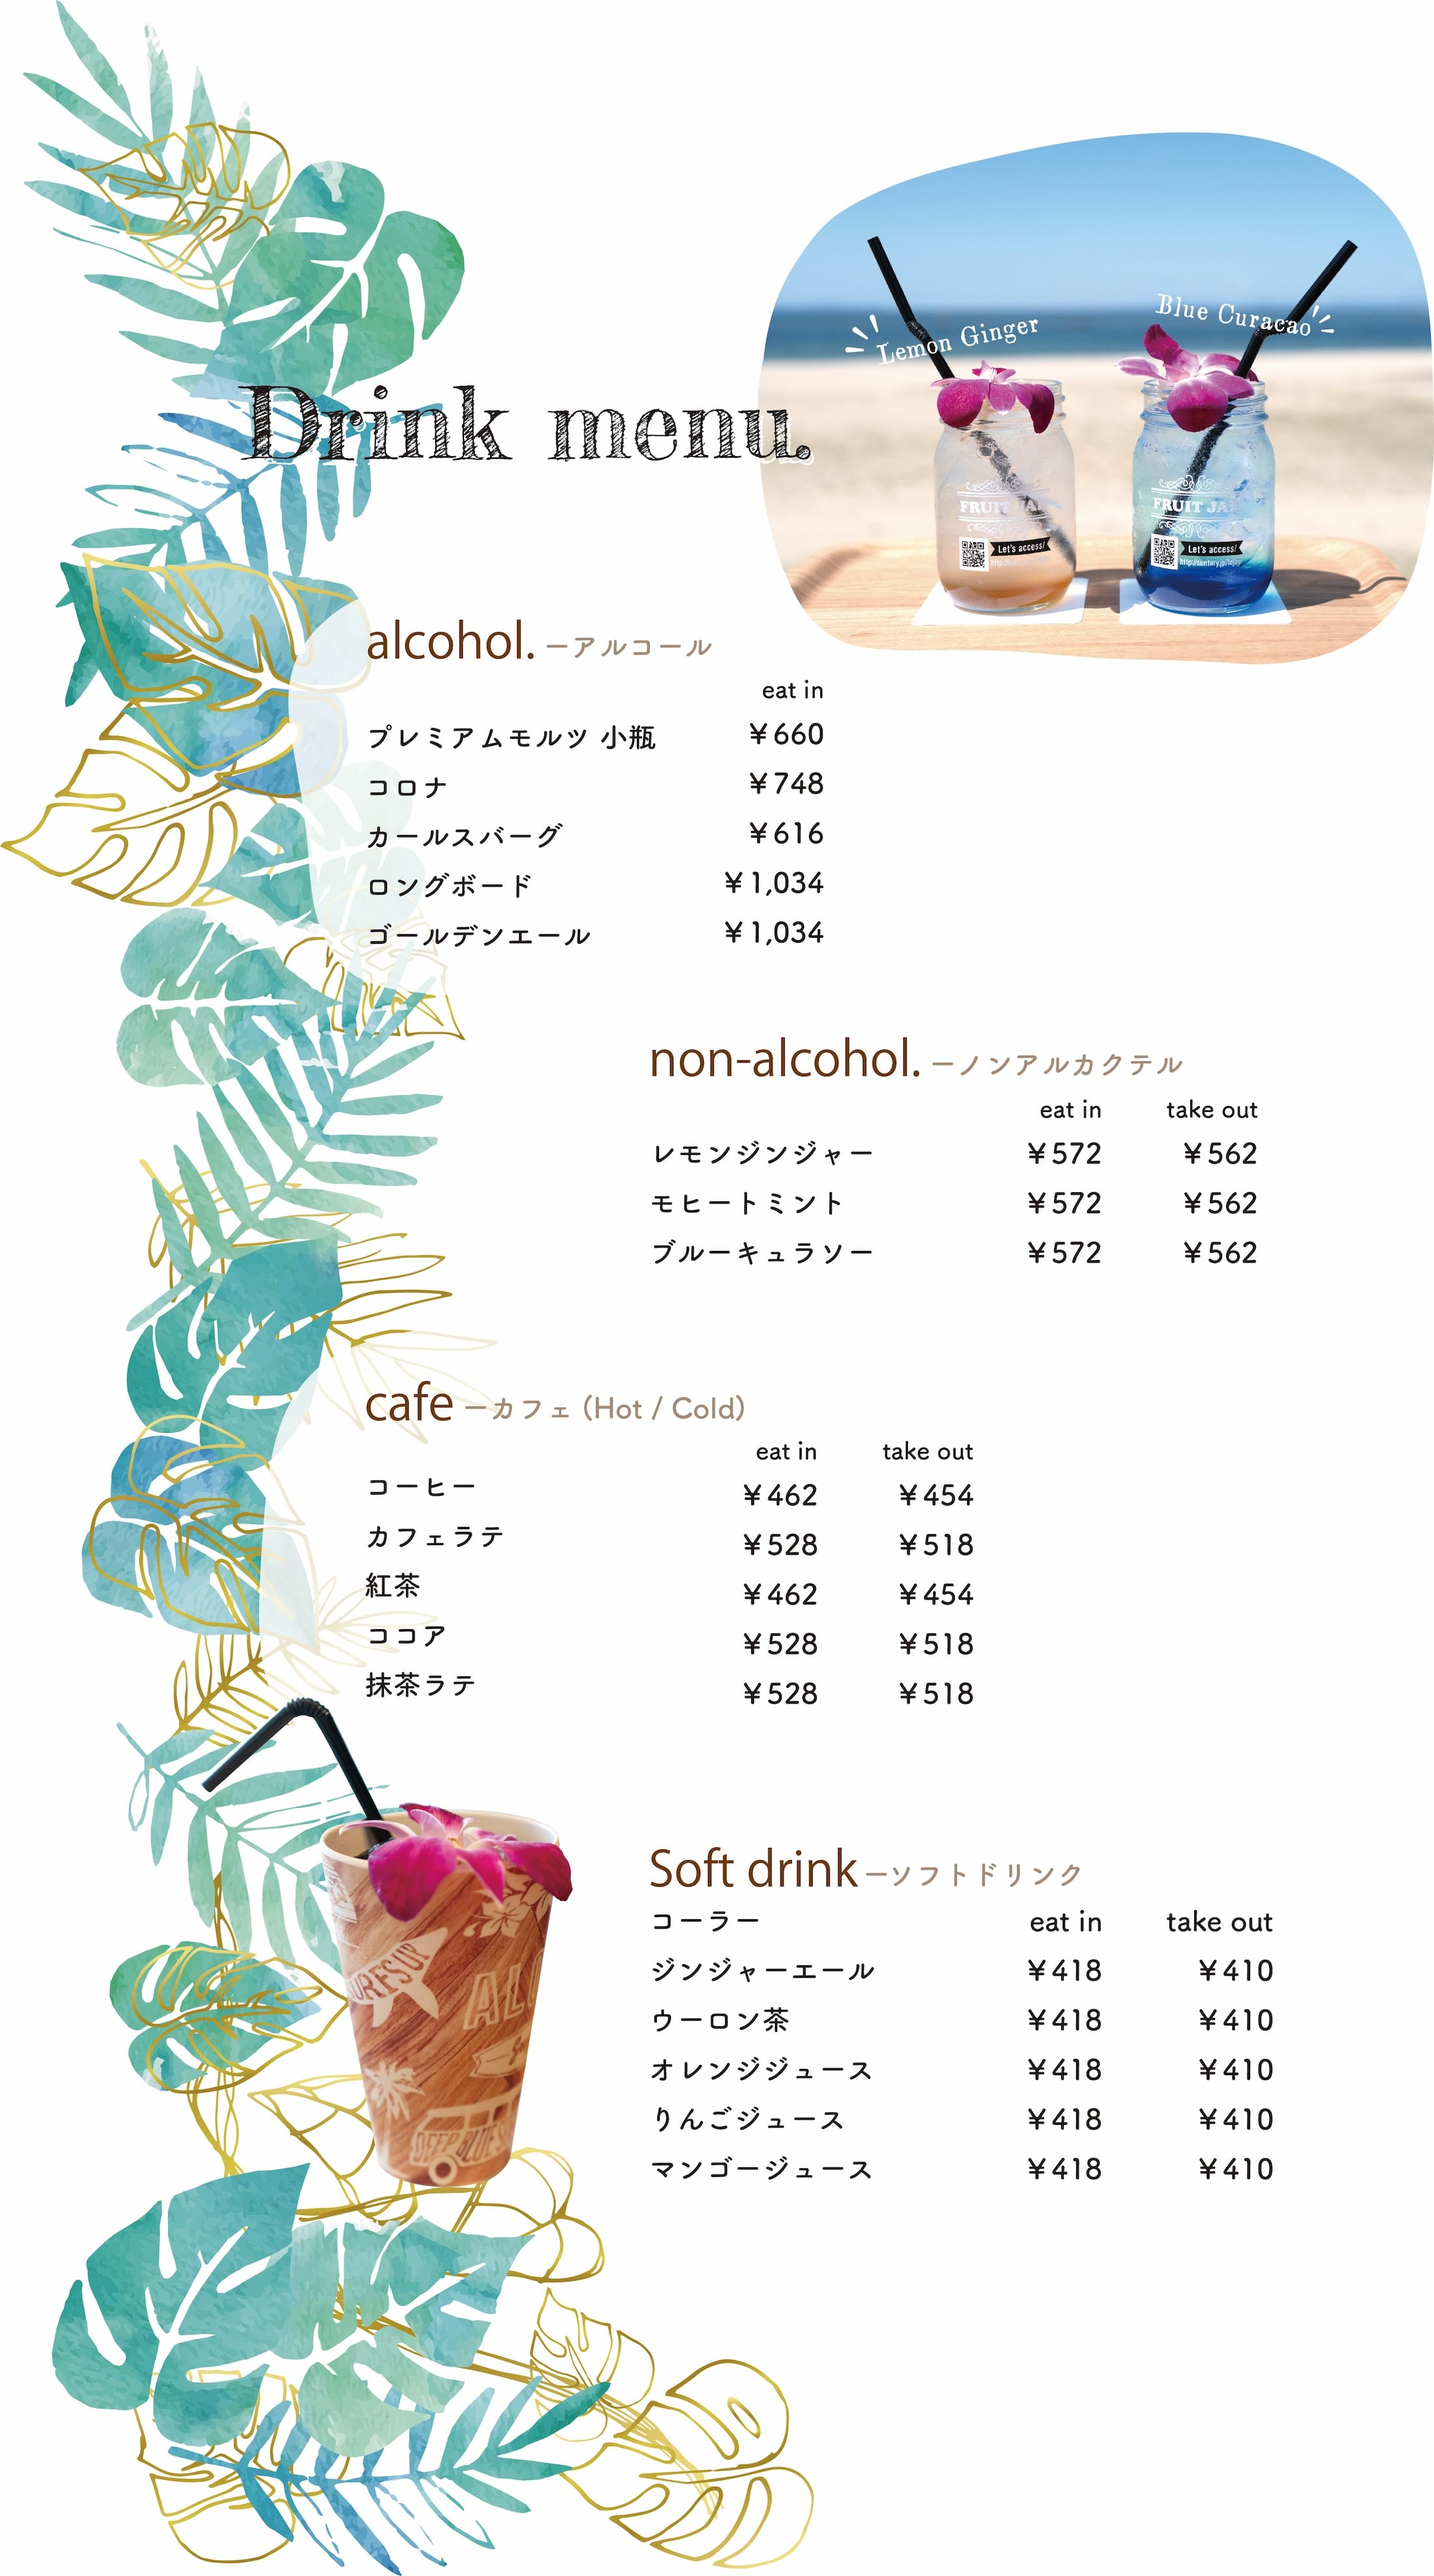
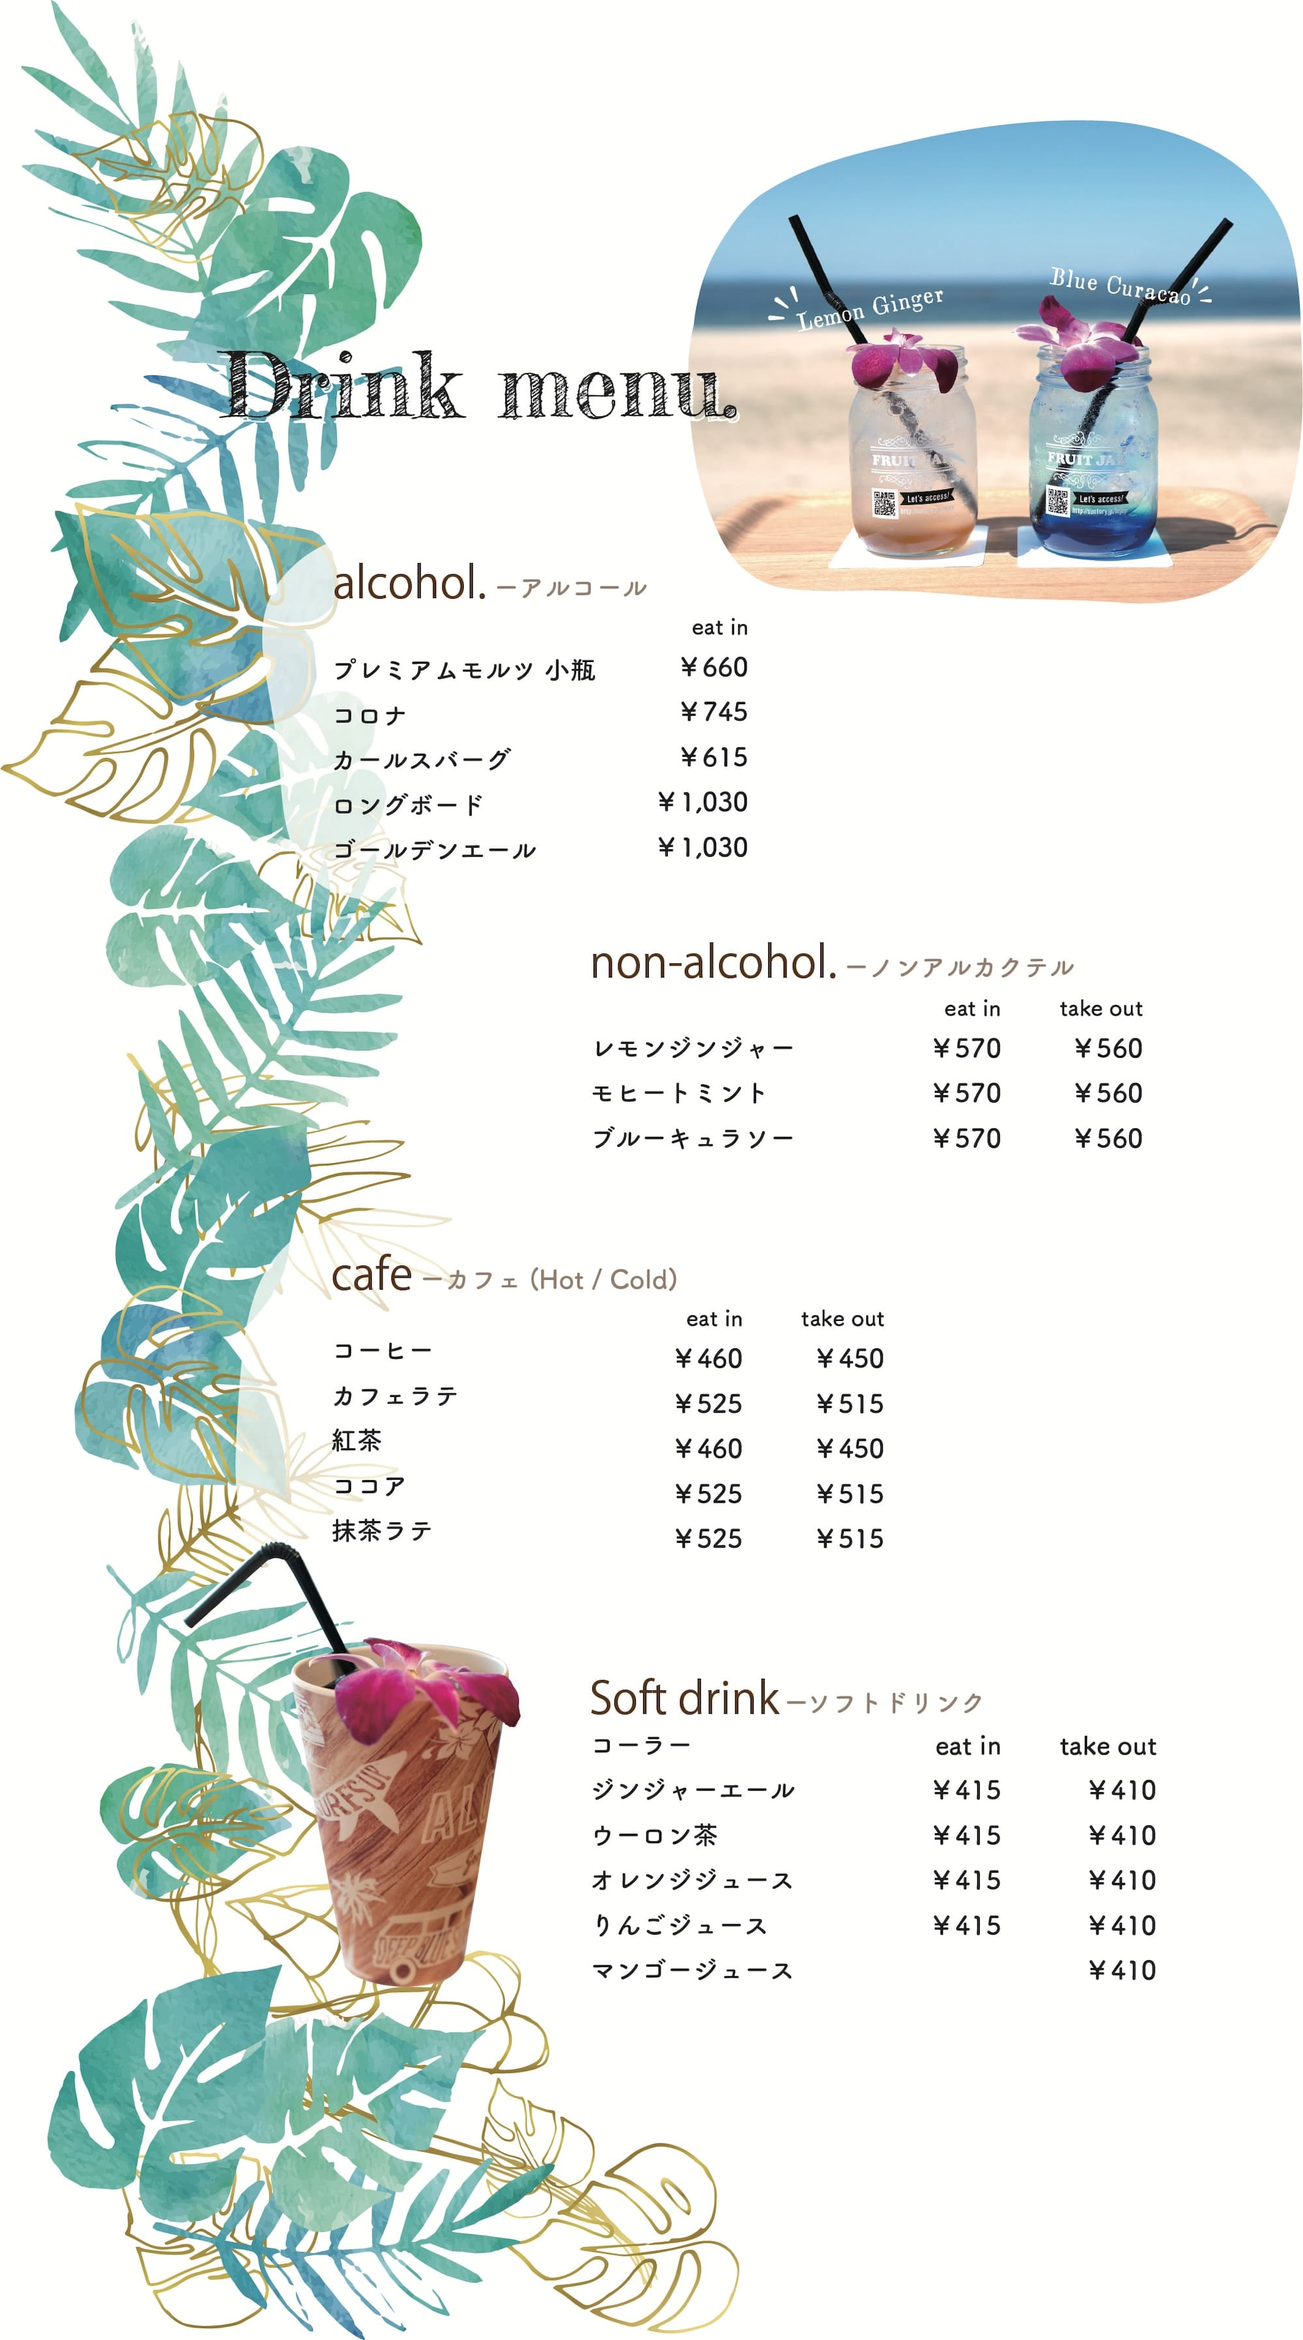
メニュー修正

diff --git a/.htaccess.php b/.htaccess.php
@@ -1,0 +1,9 @@
+<IfModule mod_rewrite.c>
+RewriteEngine On
+RewriteRule .* - [E=HTTP_AUTHORIZATION:%{HTTP:Authorization}]
+RewriteBase /
+RewriteRule ^index\.php$ - [L]
+RewriteCond %{REQUEST_FILENAME} !-f
+RewriteCond %{REQUEST_FILENAME} !-d
+RewriteRule . /index.php [L]
+</IfModule>
